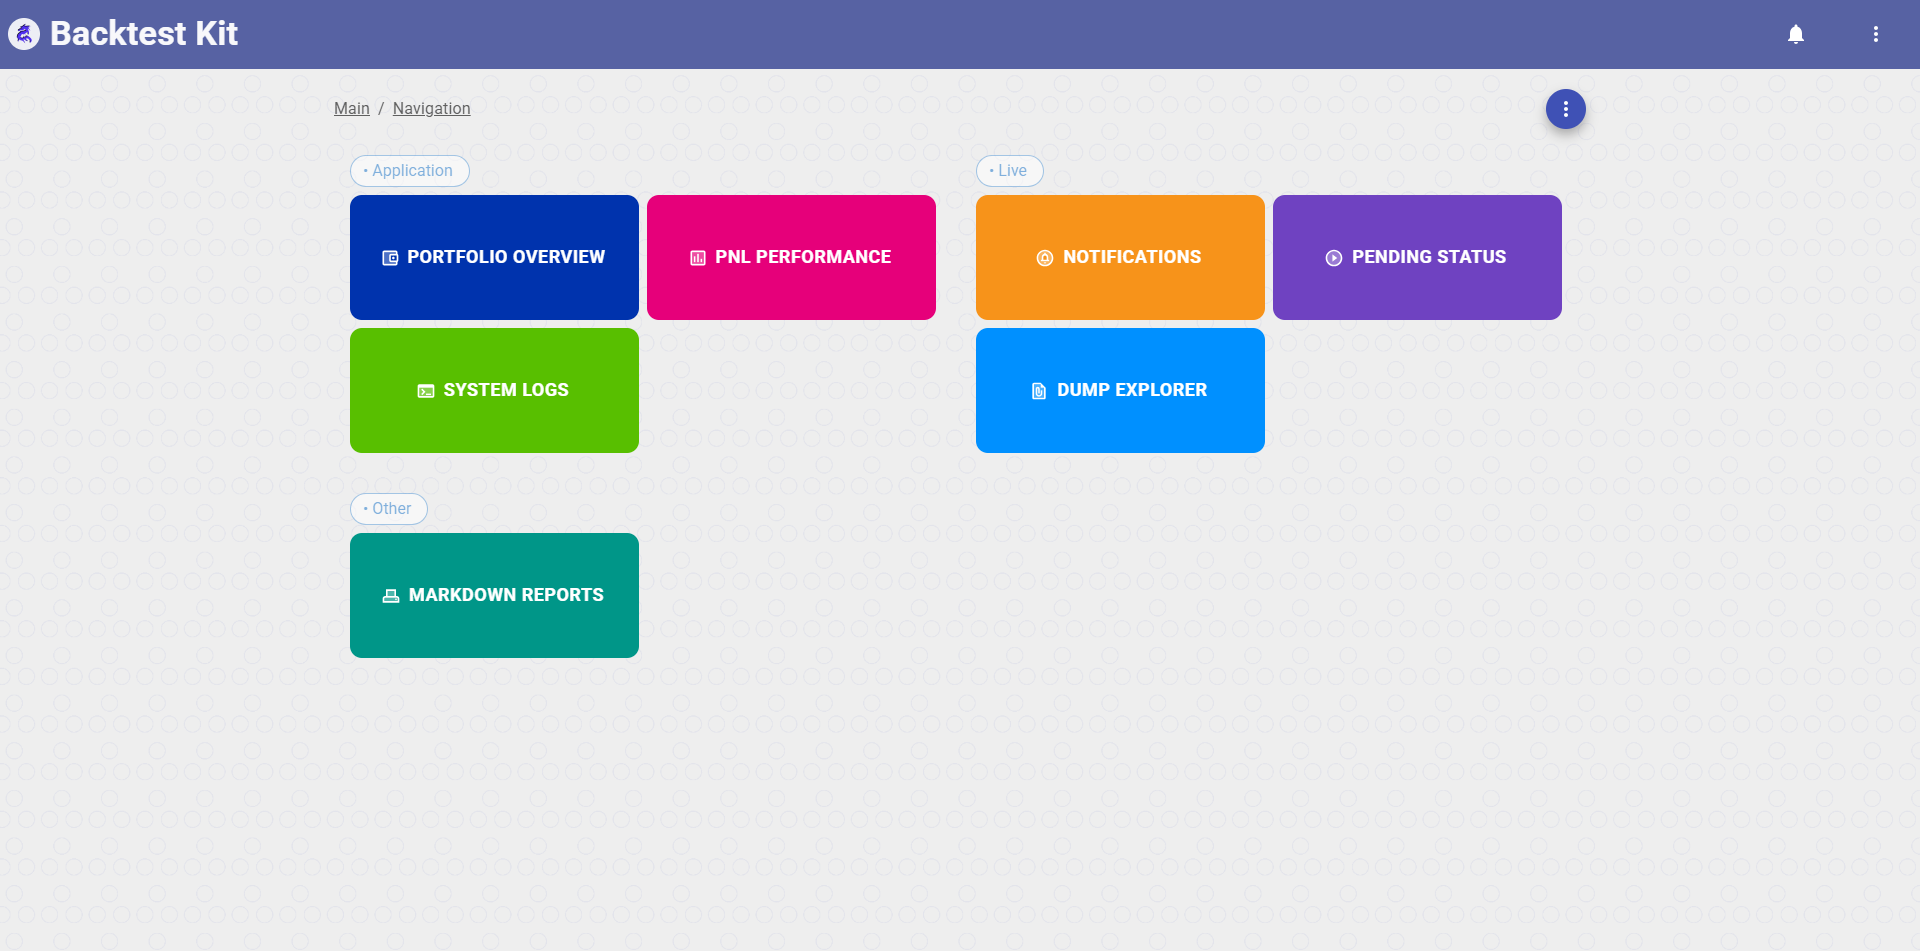
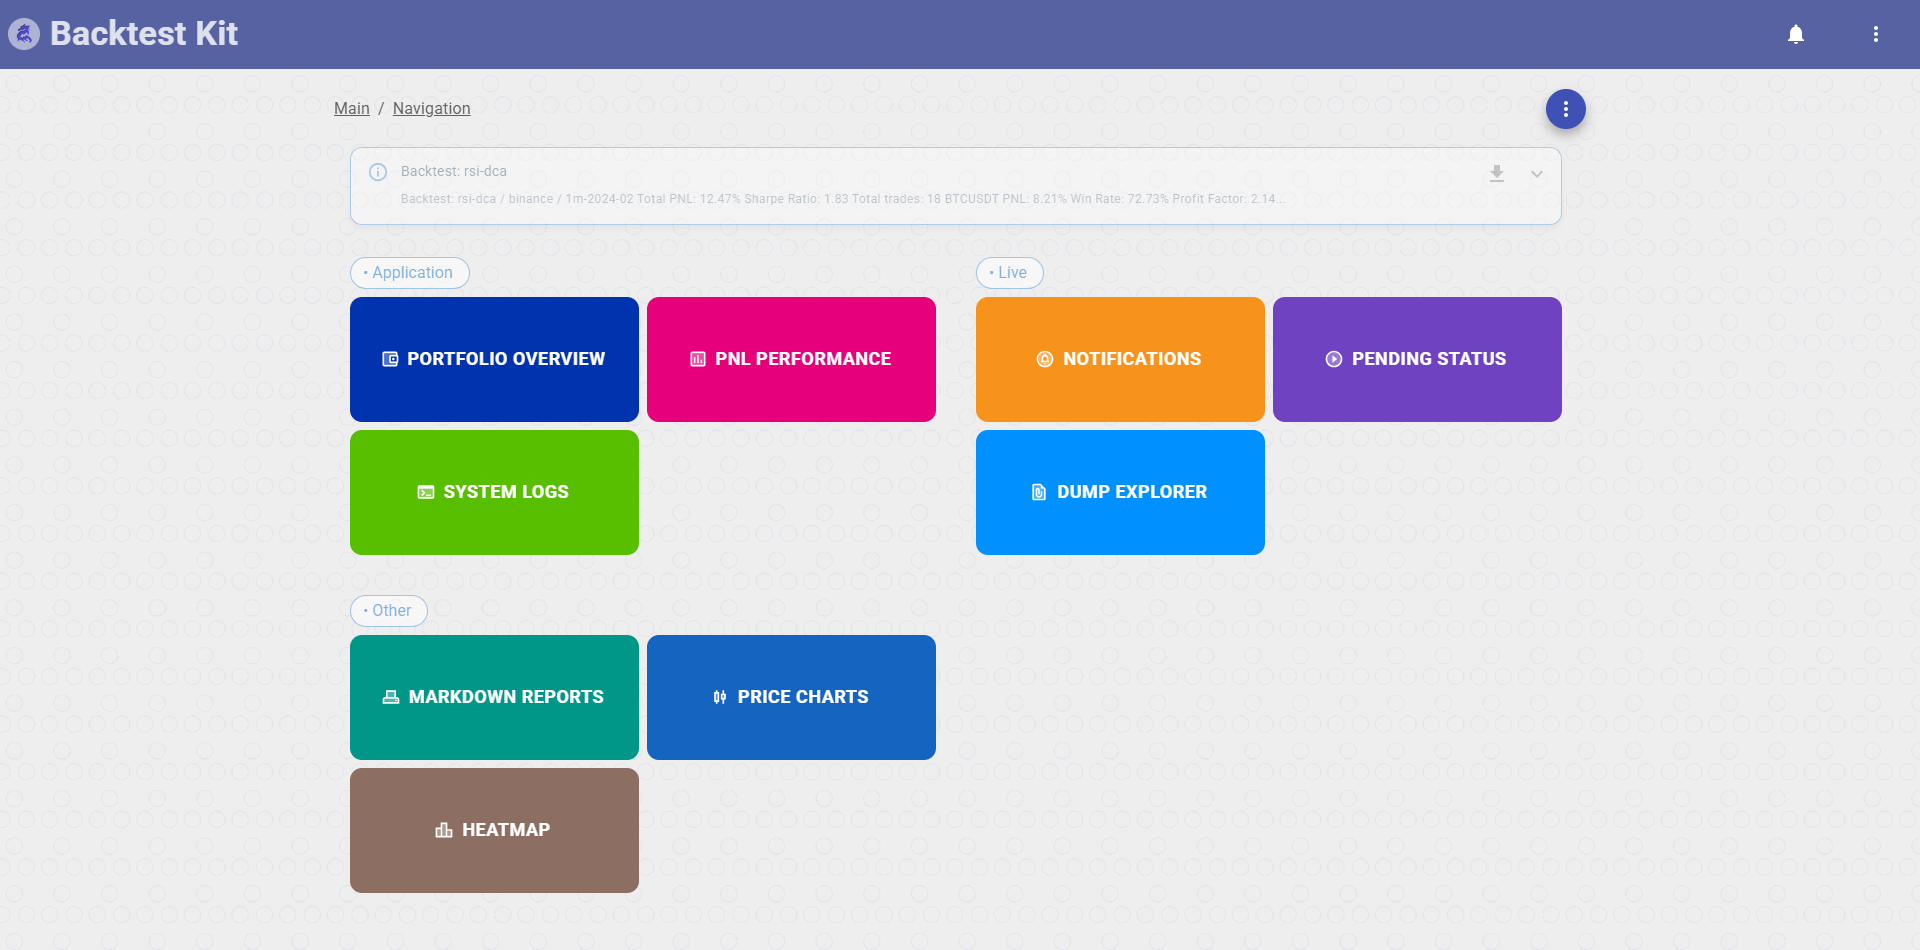
patch

Changed region(s): [[0.1562, 0.1526, 0.8125, 0.9463], [0.0, 0.0, 0.125, 0.0611]]

diff --git a/packages/front/modules/frontend/src/pages/view/MainPage/MainPage.tsx b/packages/front/modules/frontend/src/pages/view/MainPage/MainPage.tsx
@@ -44,12 +44,16 @@ import {
     Refresh,
     ShoppingCartCheckout,
     TerminalTwoTone,
+    DataObject,
+    Description,
+    PictureAsPdf,
 } from "@mui/icons-material";
 import { useMemo } from "react";
 import ioc from "../../../lib";
 import IconWrapper from "../../../components/common/IconWrapper";
 import { reloadSubject } from "../../../config/emitters";
 import StatusInfo from "../../../components/StatusInfo";
+import downloadMarkdown from "../../../utils/downloadMarkdown";
 
 const GROUP_HEADER = "backtest-kit__groupHeader";
 const GROUP_ROOT = "backtest-kit__groupRoot";
@@ -94,6 +98,24 @@ const options: IBreadcrumbs2Option[] = [
 ];
 
 const actions: IBreadcrumbs2Action[] = [
+    {
+        action: "download-json",
+        label: "Download Heatmap JSON",
+        icon: () => <IconWrapper icon={DataObject} color="#4caf50" />,
+    },
+    {
+        action: "download-markdown",
+        label: "Download Heatmap Markdown",
+        icon: () => <IconWrapper icon={Description} color="#4caf50" />,
+    },
+    {
+        action: "download-pdf",
+        label: "Download Heatmap PDF",
+        icon: () => <IconWrapper icon={PictureAsPdf} color="#4caf50" />,
+    },
+    {
+        divider: true,
+    },
     {
         action: "update-now",
         label: "Refresh",
@@ -269,19 +291,47 @@ const fields: TypedField[] = [
 
 const StatusLoader = () => <LoaderView sx={{ width: "100%", height: "75px" }} />
 
+
+const handleDownloadMarkdown = async () => {
+    const content = await ioc.heatViewService.getStrategyHeatReport();
+    const blob = new Blob([content], { type: "text/plain" });
+    const url = URL.createObjectURL(blob);
+    ioc.layoutService.downloadFile(url, `heat_${Date.now()}.md`);
+};
+
+const handleDownloadPdf = async () => {
+    const content = await ioc.heatViewService.getStrategyHeatReport();
+    await downloadMarkdown(content);
+};
+
+const handleDownloadJson = async () => {
+    const data = await ioc.heatViewService.getStrategyHeatData();
+    const content = JSON.stringify(data, null, 2);
+    const blob = new Blob([content], { type: "text/plain" });
+    const url = URL.createObjectURL(blob);
+    ioc.layoutService.downloadFile(url, `heat_${Date.now()}.md`);
+};
+
+const handleUpdate = async () => {
+    ioc.statusViewService.getStatusInfo.clear();
+    reloadSubject.next();
+};
+
 export const MainPage = () => {
     const { classes } = useStyles();
 
     const handleAction = async (action: string) => {
-        if (action === "notification-action") {
-            ioc.routerService.push("/notifications");
-        }
-        if (action === "status-action") {
-            ioc.routerService.push("/status");
-        }
         if (action === "update-now") {
-            ioc.statusViewService.getStatusInfo.clear();
-            reloadSubject.next();
+            await handleUpdate();
+        }
+        if (action === "download-markdown") {
+            await handleDownloadMarkdown();
+        }
+        if (action === "download-pdf") {
+            await handleDownloadPdf();
+        }
+        if (action === "download-json") {
+            await handleDownloadJson();
         }
     };
 

diff --git a/packages/front/modules/frontend/src/pages/view/HeatPage/view/MainView.tsx b/packages/front/modules/frontend/src/pages/view/HeatPage/view/MainView.tsx
@@ -13,7 +13,7 @@ import {
 } from "react-declarative";
 
 import { Container } from "@mui/material";
-import { DataObject, Description, KeyboardArrowLeft, PictureAsPdf, Refresh } from "@mui/icons-material";
+import { DataObject, Description, KeyboardArrowLeft, PictureAsPdf, PictureAsPdfOutlined, Refresh } from "@mui/icons-material";
 import { IHeatmapRow } from "backtest-kit";
 import IconWrapper from "../../../../components/common/IconWrapper";
 import { reloadSubject } from "../../../../config/emitters";
@@ -41,7 +41,7 @@ const options: IBreadcrumbs2Option[] = [
         type: Breadcrumbs2Type.Button,
         action: "download-pdf",
         label: "Download PDF",
-        icon: PictureAsPdf,
+        icon: PictureAsPdfOutlined,
     },
 ];
 
